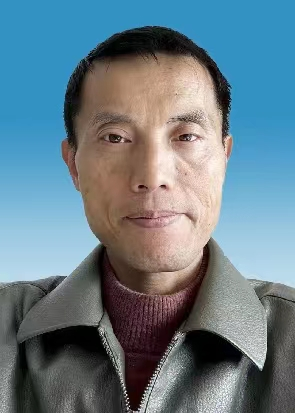
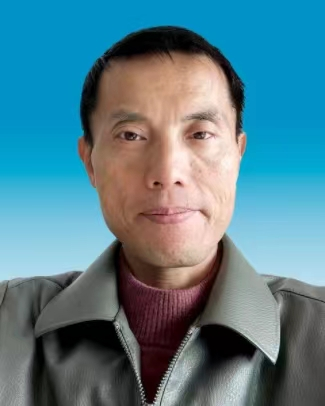
Add files via upload

diff --git a/ks.html b/ks.html
@@ -13,33 +13,19 @@
 			background-repeat: no-repeat;
 		}
 
-		.nav{
-			height: 200px;
+		img{
+			border-radius: 50%;
+			width: 70px;
 		}
 
-		.nav img{
-           width: 60px;
-           margin-left: 170px;
-		   padding: 5px;
-           margin-top: 0px;
-           border-radius: 40px;
-        }
-
-		.team{
-			font-family: 黑体;
-			color: #d67f0e;
-			margin-left: 450px;
-			font-size: 20px;
-			top: 200px;
-		}
-
+		
 		div.border {
-			width: 1000px;
-			height: 600px;
+			width: 900px;
+			height: 520px;
 			border: 5px solid #eea444;
 			position: absolute;
-			top: 250px;
-			left: 250px;
+			top: 100px;
+			left: 330px;
 			box-shadow: 6px 8px 6px 6px rgba(0, 0, 0, 0.5);
 			border-radius: 10px;
 		}
@@ -124,7 +110,7 @@
 			border-radius: 30px;
 			text-align: center;
 			position: absolute;
-			top: -720px;
+			top: -630px;
 			left: -200px;
 			background-color: #f08f3b;
 		}
@@ -137,47 +123,47 @@
 			text-align: center;
 			background-color: #f08f3b;
 			position: absolute;
-			top: -720px;
+			top: -630px;
 			left: 600px;
 		}
 
 		div.down {
 			position: absolute;
-			top: 910px;
-			left: 100px;
+			top: 660px;
+			left: 140px;
 			height: 80px;
 			width: 900px;
 		}
 
 		h1 {
-			font-family: 黑体;
+			font-family: "楷体";
 			font-size: 6em;
-			font-style: italic;
 			line-height: 50px;
 		}
 
 		div.h1 {
 			position: absolute;
 			font-size: 10px;
-			left: 500px;
+			left: 600px;
 			height: 100px;
-			top: 150px;
+			top: -10px;
 		}
 
 		div.h2 {
+			font-family: "楷体";
 			position: absolute;
 			font-size: 10px;
 			left: 800px;
 			height: 100px;
-			top: 150px;
+			top: -10px;
 		}
 
 		video#video {
 			width: 800px;
-			height: 500px;
+			height: 430px;
 			position: absolute;
 			top: 45px;
-			left: 95px;
+			left: 60px;
 		}
 
 		div.num1 {
@@ -206,14 +192,29 @@
 </head>
 <script src="ks.js"></script>
 <body>
-	<div class="nav">
-		<img src="./images/myFace.jpg">
-		<img src="./images/nyxPhoto.jpg">
-		<img src="./images/lgsPhoto.jpg">
-		<img src="./images/pljPhoto.jpg">
-		<img src="./images/teacher.jpg">
-		<p class="team">小组成员：颜廖文瑾,聂雨欣,梁港莎,彭丽娟&nbsp;&nbsp;&nbsp;&nbsp;指导老师：李健宏</p>
-	</div>
+	<table class="images1" cellpadding="16">
+		<tr>
+		<td><img src="./images/myFace.jpg" alt="颜廖文瑾"></td>
+		<td style="font-size: 26px;font-family: 楷体;font-weight: 700;">颜廖文瑾</td>
+		</tr>
+		<td><img src="./images/pljPhoto.jpg" alt="彭丽娟"></td>
+		<td style="font-size: 26px;font-family: 楷体;font-weight: 700;">彭丽娟</td>
+		</tr><tr>
+		<td><img src="./images/lgsPhoto.jpg" alt="梁港莎"></td>
+		<td style="font-size: 26px;font-family: 楷体;font-weight: 700;">梁港莎</td>
+		</tr><tr>
+		<td><img src="./images/nyxPhoto.jpg" alt="聂雨欣"></td>
+		<td style="font-size: 26px;font-family: 楷体;font-weight: 700;">聂雨欣</td>
+		</tr><tr>
+		<tr>
+		<td><img src="./images/xgqPhoto.jpg" alt="徐国强"></td>
+		<td style="font-size: 26px;font-family: 楷体;font-weight: 700;">徐国强</td>
+		</tr>
+		<tr>
+		<td><img src="./images/teacher.jpg" alt="教师照片"></td>
+		<td style="font-size: 26px;font-family: 楷体;font-weight: 700;">李健宏老师</td>
+		</tr>
+		</table>
 
 	<div class="h1">
 		<h1>学习</h1>
